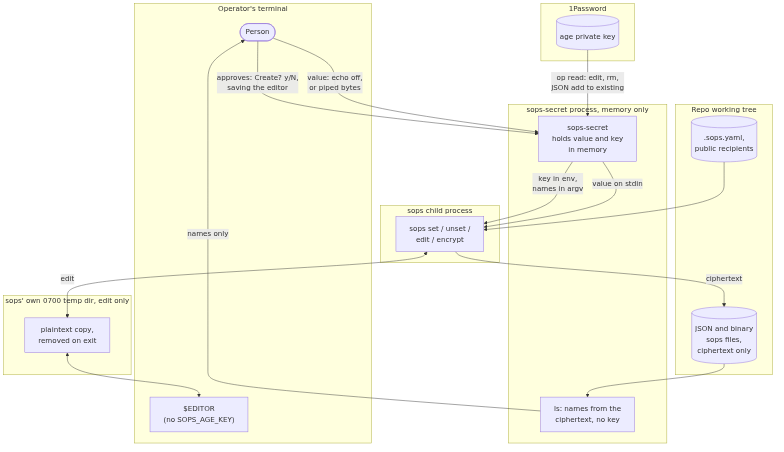
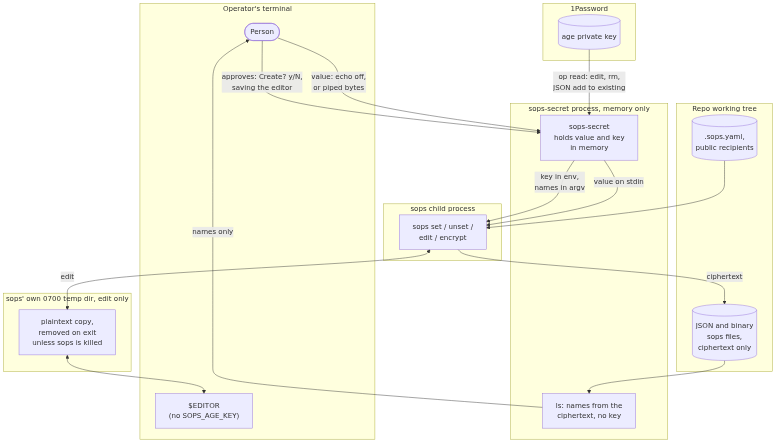
Fix design doc findings from review

diff --git a/docs/json-and-binary-design.md b/docs/json-and-binary-design.md
@@ -3,13 +3,15 @@
 Design for [#2](https://github.com/activescott/sops-secret/issues/2): how `edit`, `add`, `rm`
 and `ls` handle a JSON sops file (a `.dockerconfigjson`, say) and a binary one (an htpasswd
 file encrypted whole). Nothing here is implemented yet. Today
-[`formatOf`](https://github.com/activescott/sops-secret/blob/fa84756dcb4ae662a9accbc750a6f17e2f1bba43/src/format.ts?plain=1#L463-L475)
+[`formatOf`](https://github.com/activescott/sops-secret/blob/fa84756dcb4ae662a9accbc750a6f17e2f1bba43/src/format.ts?plain=1#L27-L39)
 refuses a file that looks like JSON, and a `*.encrypted` name with no other hint fails as an
 unknown format.
 
 The guarantee from the README stays: no secret value reaches argv, stdout or stderr, or a
 plaintext temp file that sops-secret writes. `edit` keeps its one exception, the plaintext
-copy sops itself makes for the editor.
+copy sops itself makes for the editor. sops removes that copy on a clean exit and on Ctrl+C,
+but not when it is killed: a SIGPIPE during the invalid-JSON loop left the edited plaintext
+in `/tmp/<random>/<basename>`. sops does the same for YAML today.
 
 ## Data flow
 
@@ -36,7 +38,7 @@ flowchart TB
   end
 
   subgraph sopstmp["sops' own 0700 temp dir, edit only"]
-    plain["plaintext copy,<br/>removed on exit"]
+    plain["plaintext copy,<br/>removed on exit<br/>unless sops is killed"]
   end
 
   subgraph repo["Repo working tree"]
@@ -105,17 +107,22 @@ Anything else fails as today with `cannot tell the format`.
 
 ## Naming nested JSON keys
 
-Top-level keys keep the bare name they have today: `sops-secret add app.json API_KEY`.
+Top-level keys that match today's name rule keep the bare name: `sops-secret add app.json
+API_KEY`.
 Anything deeper is a JSON Pointer ([RFC 6901](https://www.rfc-editor.org/rfc/rfc6901)),
 written with a leading `/`: `/auths/ghcr.io/auth`. Pointers suit this because Docker config
 keys are hostnames full of dots, and `/` is rare in a key. A `/` or `~` inside a key is
 written `~1` or `~0`. sops-secret turns a pointer into the sops index (`["auths"]["ghcr.io"]["auth"]`)
 with `JSON.stringify` per segment, as
-[`sopsIndex`](https://github.com/activescott/sops-secret/blob/fa84756dcb4ae662a9accbc750a6f17e2f1bba43/src/format.ts?plain=1#L520-L523)
+[`sopsIndex`](https://github.com/activescott/sops-secret/blob/fa84756dcb4ae662a9accbc750a6f17e2f1bba43/src/format.ts?plain=1#L84-L87)
 does now. Decision 1 covers the alternatives.
 
-`ls` prints every leaf in the same form it accepts, so its output pastes straight into `add`
-and `rm`: bare names at the top level, pointers below it, array elements as `/list/0`.
+`ls` prints every leaf: bare names for top-level keys that match the name rule, pointers for
+everything else, including a top-level key with a space or `@` in it (`/my key`). For JSON,
+`add` and `rm` accept a pointer to any object key, refusing only the names under "What the
+CLI refuses". So every name `ls` prints for a leaf under objects pastes straight into `add`
+and `rm`. Array elements do not: `ls` prints them as `/list/0`, and `add` and `rm` refuse a
+path through an array, so those are changed with `edit`.
 
 ## Each command
 
@@ -138,7 +145,7 @@ target exists and is not a `type:str` leaf (read from the ciphertext, no decrypt
 is an object, and when the path goes through an array or through a leaf.
 
 JSON, new file: as today's
-[`createWith`](https://github.com/activescott/sops-secret/blob/fa84756dcb4ae662a9accbc750a6f17e2f1bba43/src/cli.ts?plain=1#L237-L267),
+[`createWith`](https://github.com/activescott/sops-secret/blob/fa84756dcb4ae662a9accbc750a6f17e2f1bba43/src/cli.ts?plain=1#L171-L201),
 building the nested object from the pointer and running `sops encrypt --input-type json
 --output-type json`. No private key.
 
@@ -155,7 +162,8 @@ beside the target and renamed, as `createWith` does (decision 3). A new file sti
 ### `rm`
 
 JSON: `sops unset --input-type json --output-type json <path> <index>` for a leaf `ls`
-printed. Refused for an object (it would drop a subtree whose names were never shown) and
+printed, of any type: a number or boolean leaf is removed the same as a string. Refused for
+an object (it would drop a subtree whose names were never shown) and
 for an array element (removing it renumbers the ones after it). An emptied parent object is
 left as `{}`.
 
@@ -171,15 +179,15 @@ will say to use `add` for those.
 
 ## How the guarantee holds
 
-| Command | Format | argv                                | stdout / stderr                                                                       | Plaintext on disk                                      |
-| ------- | ------ | ----------------------------------- | ------------------------------------------------------------------------------------- | ------------------------------------------------------ |
-| `ls`    | JSON   | none (no child process)             | Key names only. A parse failure says "not valid JSON" without `JSON.parse`'s message  | None                                                   |
-| `ls`    | binary | none                                | A fixed note on stderr                                                                | None                                                   |
-| `add`   | JSON   | Path and index, which are names     | Value goes to sops on stdin. sops' stderr is redacted for the value and its JSON form | None; `set` rewrites the file in place                 |
-| `add`   | binary | Path and `--filename-override` only | Bytes go to sops on stdin. stderr redacted for the bytes as a string                  | None; the staging file beside the target is ciphertext |
-| `rm`    | JSON   | Path and index                      | No value is read                                                                      | None                                                   |
-| `rm`    | binary | n/a, refused before any sops call   | Fixed message                                                                         | None                                                   |
-| `edit`  | both   | Path and type flags                 | Editor shows values on the terminal, as today                                         | sops' own temp copy, 0700 dir, removed on exit         |
+| Command | Format | argv                                | stdout / stderr                                                                       | Plaintext on disk                                                    |
+| ------- | ------ | ----------------------------------- | ------------------------------------------------------------------------------------- | -------------------------------------------------------------------- |
+| `ls`    | JSON   | none (no child process)             | Key names only. A parse failure says "not valid JSON" without `JSON.parse`'s message  | None                                                                 |
+| `ls`    | binary | none                                | A fixed note on stderr                                                                | None                                                                 |
+| `add`   | JSON   | Path and index, which are names     | Value goes to sops on stdin. sops' stderr is redacted for the value and its JSON form | None; `set` rewrites the file in place                               |
+| `add`   | binary | Path and `--filename-override` only | Bytes go to sops on stdin. stderr redacted for the bytes as a string                  | None; the staging file beside the target is ciphertext               |
+| `rm`    | JSON   | Path and index                      | No value is read                                                                      | None                                                                 |
+| `rm`    | binary | n/a, refused before any sops call   | Fixed message                                                                         | None                                                                 |
+| `edit`  | both   | Path and type flags                 | Editor shows values on the terminal, as today                                         | sops' own temp copy, 0700 dir, removed on exit unless sops is killed |
 
 Two leaks to design out, both checked on Node 24 and sops 3.13.3:
 
@@ -199,7 +207,8 @@ today.
 - A top-level `sops` key as a name, or a pointer starting `/sops`.
 - An empty pointer segment, and control characters in any name, since `ls` would print them
   to a terminal.
-- `add` or `rm` through an array, on an object, or on a non-string leaf. `edit` covers these.
+- `add` or `rm` through an array or on an object, and `add` on a non-string leaf. `edit`
+  covers these.
 - `rm` on a binary file, and `add` with a name on one.
 - `add` with no name on a dotenv, YAML or JSON file.
 - A JSON Kubernetes Secret (top-level `"kind": "Secret"`). A value under `/data/...` would
@@ -257,3 +266,16 @@ Recommendation: create them. The path is typed on purpose, and the message says
 
 Recommendation: read `/dev/tty`. It keeps the one approval step `add` has today and works in
 the htpasswd pipeline. CI has no terminal, but CI should not be creating secret files.
+
+## Implementation notes
+
+[`run()`](https://github.com/activescott/sops-secret/blob/fa84756dcb4ae662a9accbc750a6f17e2f1bba43/src/sops.ts?plain=1#L19-L22) and
+[`sops()`](https://github.com/activescott/sops-secret/blob/fa84756dcb4ae662a9accbc750a6f17e2f1bba43/src/sops.ts?plain=1#L124-L126) take `input?: string`, so binary `add` needs a Buffer path
+through both. Redacting sops' stderr for the bytes decoded as a string catches only a
+full echo, not a partial one. That is enough for now, since `sops encrypt` echoed no stdin in
+any error tried by hand.
+
+## Follow-ups
+
+- README: name JSON sops files `*.json`. A JSON file whose only key is `data`, under any
+  other name, is read as binary by rule 3 of "Telling the formats apart".
